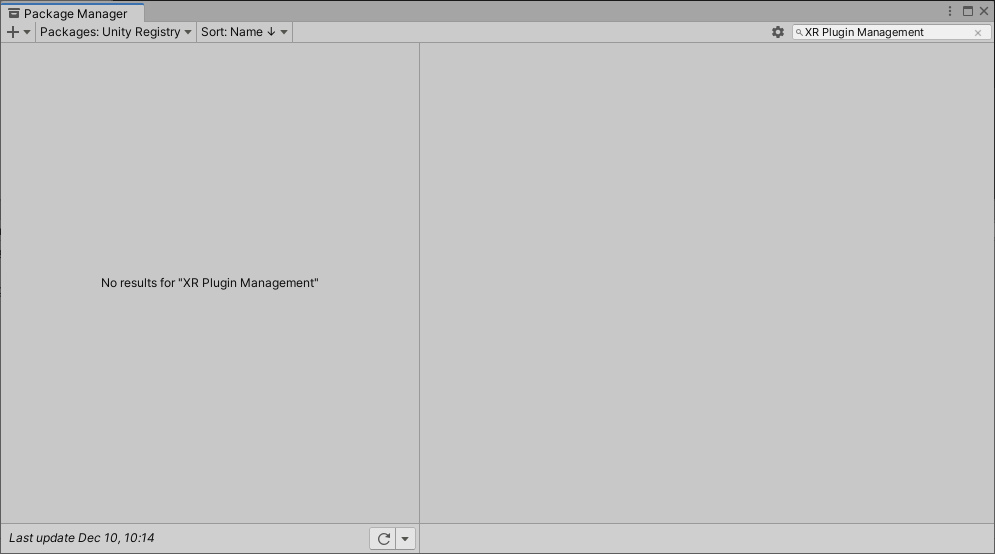
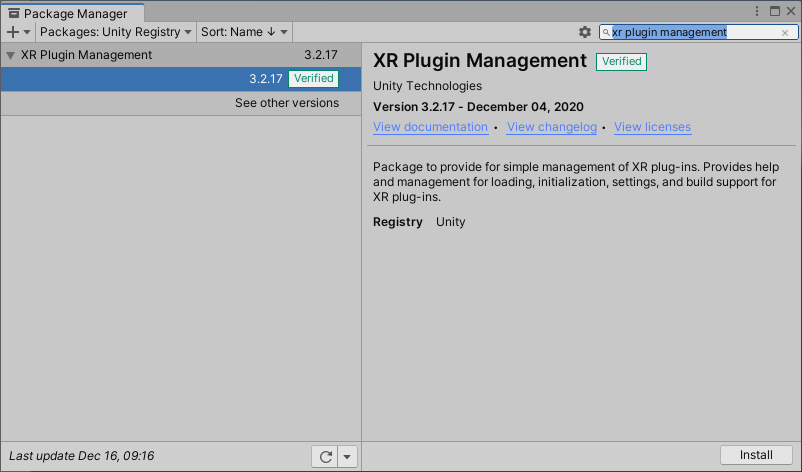
Reviewer feedback and content updates

diff --git a/mixed-reality-docs/mr-dev-docs/develop/unity/openxr-supported-features.md b/mixed-reality-docs/mr-dev-docs/develop/unity/openxr-supported-features.md
@@ -11,3 +11,39 @@ keywords: openxr, unity, hololens, hololens 2, mixed reality, MRTK, Mixed Realit
 
 # OpenXR plugin Supported Features in Unity
 
+The **Mixed Reality OpenXR Plugin** package is an extension of Unity's **OpenXR Plugin** and supports a suite of features for HoloLens 2 and Windows Mixed Reality headsets.
+
+## What's supported
+
+The **Mixed Reality OpenXR Plugin** package requires: 
+
+* Unity 2020.2 or later
+* Unity’s "OpenXR Plugin" version 0.1.1 or later
+
+The following features are currently supported:
+
+* Supports both UWP applications for HoloLens 2 and Win32 VR applications for Windows Mixed Reality headsets.
+* Optimizes UWP package and CoreWindow interaction for HoloLens 2 applications.
+* World scale tracking using Anchor and Unbounded space.
+* Anchor storage API to persistent anchors to HoloLens 2 local storage.
+* Motion controller and hand interactions, including the new HP Reverb G2 controller.
+* Articulated hand tracking using 26 joints and joint radius inputs.
+* Eye gaze interaction on HoloLens 2.
+* Locating PV camera on HoloLens 2.
+* Mixed Reality Capture using 3rd eye rendering through PV camera.
+* Supports "Play" to HoloLens 2 using Holographic Remoting app, allow developers to debug scripts without build and deploy to the device.
+* Compatible with MRTK Unity 2.5.2 through MRTK OpenXR adapter package. <missing link>
+* Compatible with Unity [ARFoundation 4.0](https://docs.unity3d.com/Packages/com.unity.xr.arfoundation@4.1/manual/index.html) or later
+
+## Holographic Remoting in Unity Editor play mode
+
+![Screenshot of Windows Mixed Reality features window open in Unity editor with features sets highlighted](images/openxr-features-img-01.png)
+
+## What's coming soon
+
+The following issues and missing features are known with Mixed Reality OpenXR plugin **version 0.1.0**. We're working on these and will release fixes and new features in upcoming releases.
+
+* When you suspend and resume a Unity app on HoloLens 2, the app can't correctly resume, which leads to 4 spinning dots in the HoloLens view. 
+    *  Set **Depth submission Mode** to **None** in the OpenXR project settings as a workaround
+* **ARPlaneSubsystem** is not supported yet. **ARPlaneManager**, **ARHittestManager**, and related API like **ARAnchorManager.AttachAnchor** are also not supported on HoloLens 2.
+* **Anchor** isn't supported by Holographic remoting yet, but it's coming in the near future.

diff --git a/mixed-reality-docs/mr-dev-docs/develop/unity/openxr-getting-started.md b/mixed-reality-docs/mr-dev-docs/develop/unity/openxr-getting-started.md
@@ -13,15 +13,28 @@ keywords: openxr, unity, hololens, hololens 2, mixed reality, MRTK, Mixed Realit
 
 Starting with Unity version 2020.2, Microsoft’s Mixed Reality OpenXR Plugin package is available using the Unity Package Manager (UPM).
 
+## Prerequisites
+
+-	Unity 2020.2+ 
+-	Unity OpenXR plugin 0.1.1 or later
+-	Visual Studio 2019 or later
+-	Install **UWP** platform support in Unity for HoloLens 2 apps
+
+> [!NOTE]
+> If you're building VR applications on Windows PC, all you need is Unity's OpenXR plugin. You don't need to install UWP platform support or the Mixed Reality OpenXR plugin package. 
+
 ## Installing Unity’s OpenXR and XR Plugin Management packages
 
 Before using the Mixed Reality OpenXR Plugin, you need to install Unity’s “OpenXR XR Plugin” and “XR Plugin Management” packages:
 
 1. In the Unity Editor, navigate to **Window > Package Manager**, select **Packages: Unity Registry**, and search for**XR Plugin Management**
 2. Select **Install**   
-3. Once installation is complete, search for **OpenXR XR Plugin** and select **Install**
 
 ![Screenshot of the Unity Package Manager window open in the Unity editor](images/openxr-img-01.png)
+
+3. Once installation is complete, search for **OpenXR XR Plugin** and select **Install**
+
+<!-- Image coming after Unity publishes -->
 
 > [!NOTE]
 > If you're not targeting HoloLens 2, you can skip to [configuring the XR Plugin Management for OpenXR](#configure-xr-plugin-management-for-openxr).
